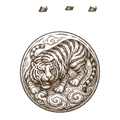
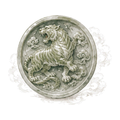
art(曹操传): 25 张卡面换成水墨淡彩重画，对齐本体画法；金火罐炮范围 1→5、五火神焰扇 2→4
【为什么重画】旧版是铜版雕刻风(密排交叉排线)，与本体的水墨淡彩不是一路。逐项实测差距：
  实心像素占比 本体青钢剑 6.3% / 我的镜铠 30.6%(5 倍)；本体有淡龙纹底 0.4~8.1%，我的 0%；
  本体物件斜置 45 度、表面无雕纹，我的正置对称且满是镶嵌雕花。
根源是我当初的 prompt 写的就是 engraving 风，而且为了让白底抠干净还明确要求
「去掉水墨云雾背景」—— 现在看那个决定是错的，本体的淡纹样恰是质感来源。

【卡面占比：从 76.4% 收到 64.6%】本体 16 张实测 bbox 占画面 60~74%(均值 65.0%)、
最长边 97~106px(120 画布总留 7px 以上边距)。旧版平均 76.4%、最长边顶到 112px，
面积是本体 1.18 倍，在手牌里明显比本体挤。现在 58~65%(均值 64.6%)。

【切图从硬切 3x3 改成连通域标记】旧法在 33.png 上踩了两个坑：赤霄剑原始 bbox 是
y 35→418 正好顶格线 —— 剑尖伸进下一格被切掉；而下排三枚宝玉 bbox 从 y=0 起，
那是上排马蹄/剑尖溢出的残片，把框撑高到 397，圆牌被缩成 81x104(偏高瘦)，
而没被污染的玄武是 96x98。改成整张图连通域 + 按重心归格后，四枚宝玉统一到 96~104x90~98。

【抠底必须"解混"而非按白度给 alpha】新画风的淡云纹亮度 240~250，**比卡牌米色底(219)
还亮**。按旧法(alpha=(250-亮度)/50、RGB 原样)抠出来：云纹 alpha≈0.2、RGB≈240，
叠米色得 223 —— 比底色更亮，云纹变"亮斑"，方向反了。改成把源图当"颜料以覆盖率画在
白纸上"反解：a = 1 - min(R,G,B)/纸白，C = (源 - (1-a)*纸白)/a。这样叠回白底能精确
复原源图，叠到更暗的底上则正确变暗。纸白取四角中位数(实测这批是 254 而非 255)。

【补一道 alpha 0.5 次幂】源图约 360px 缩到约 100px 是 3.6 倍降采样，细线被平均掉：
细长兵器叠卡纸后最暗只到 91~106，而本体是 29~78 —— 没有黑色重音、整张发灰。
粗物件(金火罐炮 69)不受影响，证明问题在线宽而非抠底；本体的画是按目标尺寸画的没这损失。
取 0.5 次幂后兵器最暗落到 58~77(入本体区间)，而云纹 alpha 0.05→0.22，
正好等于本体淡纹实测的 0.22~0.28 —— 两个独立指标同时对上。
另外缩放前预乘 alpha(解混会把透明区 RGB clip 成黑，不预乘会染出暗边)。

【第二批两本书作废】该画青囊书/遁甲天书，AI 画成了「傷寒雜病論」「道德經」——
题材沾边但书名不对，而 120px 下题签仍认得出字。第三批的两个空格已按正确书名重画。

【数值】金火罐炮攻击范围 1 → 5：它原先**压根没有 distance 字段**(默认 1)，
我早先报的"范围 2"是错的(正则窗口读到了邻卡的值)。炮的射程该是最长一档，
现与本体麒麟弓并列。五火神焰扇 2 → 4。

【删掉一句假话】金火罐炮说明写着「毒属性伤害无法被"防止伤害"类效果抵消」，
但代码只做了 setNature(card,"poison")，没有任何绕过防护的逻辑；而本包自己的黄金铠
(属性伤害无效)恰好会挡住它 —— 说明与代码正好相反。改成「毒属性计入属性伤害」。
[…]

diff --git a/apps/core/card/caocaozhuan.js b/apps/core/card/caocaozhuan.js
@@ -117,6 +117,8 @@ export default {
 			fullskin: true,
 			type: "equip",
 			subtype: "equip1",
+			// 攻击范围 5 —— 与本体麒麟弓并列全场最远。炮的射程本就该是最长的一档
+			distance: { attackFrom: -4 },
 			ai: { basic: { equipValue: 4 } },
 			skills: ["ccz_jinhuoguanpao_skill"],
 		},
@@ -132,7 +134,7 @@ export default {
 			fullskin: true,
 			type: "equip",
 			subtype: "equip1",
-			distance: { attackFrom: -1 },
+			distance: { attackFrom: -3 },
 			ai: { basic: { equipValue: 3 } },
 			skills: ["ccz_wuhuoshenyanshan_skill"],
 		},
@@ -1127,7 +1129,7 @@ export default {
 
 		ccz_jinhuoguanpao: "金火罐炮",
 		ccz_jinhuoguanpao_bg: "炮",
-		ccz_jinhuoguanpao_info: "锁定技，你使用的普通【杀】改为毒属性【杀】。（毒属性伤害无法被“防止伤害”类效果抵消）",
+		ccz_jinhuoguanpao_info: "锁定技，你使用的普通【杀】改为毒属性【杀】。（毒属性计入属性伤害）",
 		ccz_jinhuoguanpao_skill: "金火罐炮",
 		ccz_jinhuoguanpao_skill_info: "锁定技，你使用的普通【杀】改为毒属性【杀】。",
 
